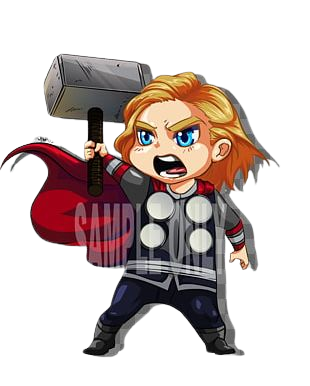
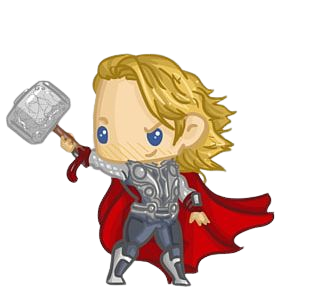
new worrior and planet

diff --git a/page2.css b/page2.css
@@ -17,7 +17,7 @@ body {
 }
 
 .planet1-container:hover .worrior1 {
-  transform: translate(660%, -400%);
+  transform: translate(670%, -400%);
   transition: transform 0.3s ease-in-out;
   z-index: -1;
 }
@@ -42,6 +42,7 @@ body {
   width: 8rem;
   animation: rotatePlanet 24s linear infinite;
   transition: all 0.3s ease-in-out;
+  border-radius: 50%;
 }
 
 .planet-1:hover {
@@ -96,6 +97,7 @@ body {
   width: 5rem;
   animation: rotatePlanet 24s linear infinite;
   transition: all 0.3s ease-in-out;
+  border-radius: 50%;
 }
 @keyframes rotatePlanet {
   0% {
@@ -114,6 +116,53 @@ body {
   transition: all 0.3s ease-in-out;
 }
 
+.planet3-container {
+  position: relative;
+  width: 5rem;
+  margin-top: -20rem;
+  margin-left: 88rem;
+  display: flex;
+  justify-content: center;
+  align-items: center;
+  flex-direction: column;
+}
+
+.planet-3 {
+  width: 9rem;
+  animation: rotatePlanet 24s linear infinite;
+  transition: all 0.3s ease-in-out;
+  border-radius: 50%;
+}
+
+.planet-3:hover {
+  box-shadow: 0 0 15px 15px rgb(33, 35, 155);
+  background: transparent;
+  border: none;
+  border-radius: 50%;
+  transition: all 0.3s ease-in-out;
+}
+
+.planet3-name {
+  color: #7e9add;
+}
+
+.planet3-container:hover .worrior3 {
+  transform: translate(-130%, -380%);
+  transition: transform 0.3s ease-in-out;
+  z-index: -1;
+}
+
+.worrior3 {
+  position: absolute;
+  bottom: -16.7rem;
+  transform: translateX(-570%);
+  width: 5rem;
+  height: 5rem;
+  background: url(assets/worrior3.png) no-repeat center center / contain;
+  transition: transform 0.3s ease-in-out;
+  z-index: -3;
+}
+
 .content-container {
   height: 45vh;
   display: flex;
@@ -121,6 +170,7 @@ body {
   justify-content: center;
   align-items: center;
   text-align: center;
+  margin-top: 6rem;
 }
 
 .title {

diff --git a/page2.html b/page2.html
@@ -35,6 +35,16 @@
     </div>
     <!-- Planet 2 kontainer -->
 
+    <!-- Planet 3 kontainer -->
+    <div class="planet3-container">
+      <p class="planet3-name">Planet 3</p>
+      <a href="planet3">
+        <img class="planet-3" src="assets/planet-3.png" alt="planet3-image" />
+      </a>
+      <div class="worrior3"></div>
+    </div>
+    <!-- Planet 3 kontainer -->
+
     <div class="content-container">
       <span class="title">You are now in space, enter a planet </span>
     </div>
